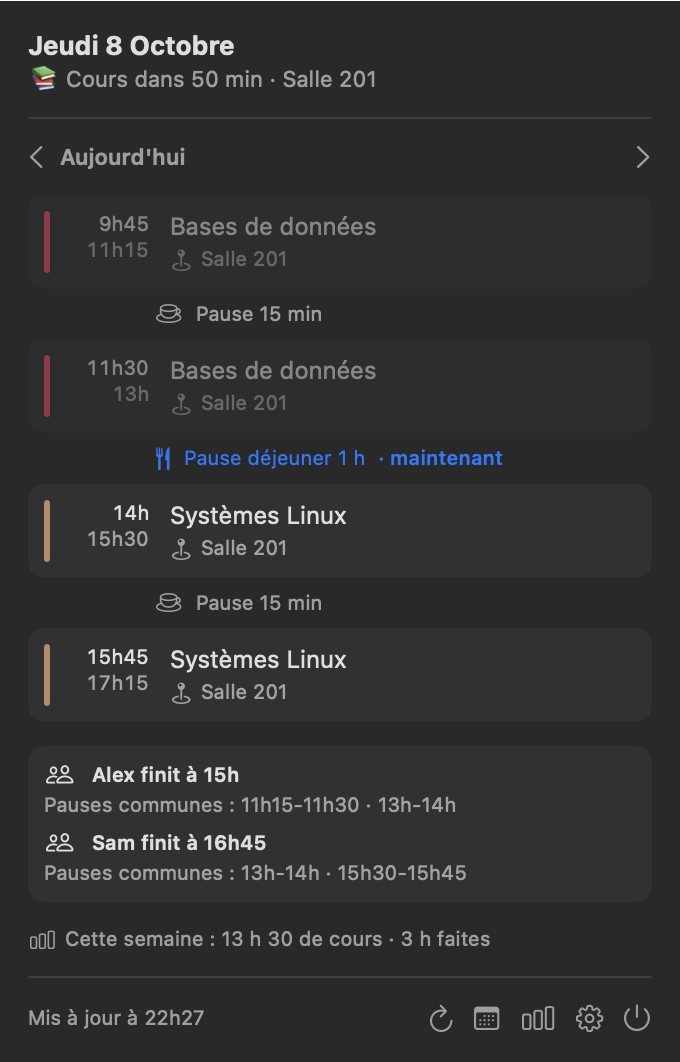
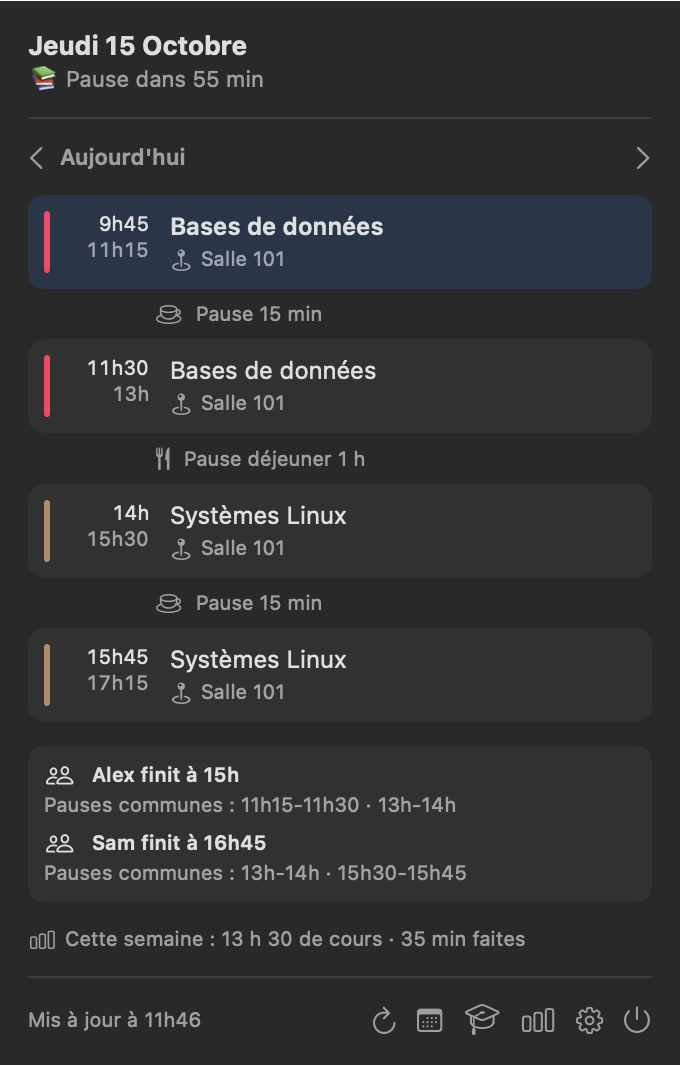
feat(ui): compte myGES dans les réglages, vue des notes, notification de nouvelle note

diff --git a/Sources/EduBar/Views/GradesView.swift b/Sources/EduBar/Views/GradesView.swift
@@ -1,0 +1,136 @@
+import EduBarCore
+import SwiftUI
+
+/// Notes myGES par matière : moyenne, contrôles continus, examen. Les notes apparues au dernier chargement sont en vert.
+struct GradesView: View {
+    let model: AppModel
+
+    private var book: GradeBook? { model.snapshotGrades ?? model.grades.book }
+
+    var body: some View {
+        let subjects = (book?.subjects ?? []).sorted {
+            $0.shortCourse.localizedCaseInsensitiveCompare($1.shortCourse) == .orderedAscending
+        }
+        let fresh = Set((model.snapshotNewGrades ?? model.grades.newGrades).map { "\($0.course)|\($0.label)" })
+        let colors = colors(for: subjects)
+
+        return VStack(alignment: .leading, spacing: 12) {
+            HStack(alignment: .firstTextBaseline) {
+                Button { model.showingGrades = false } label: { Image(systemName: "chevron.left") }
+                    .buttonStyle(.borderless)
+                VStack(alignment: .leading, spacing: 0) {
+                    Text("Notes").font(.headline)
+                    subtitle(count: subjects.count)
+                }
+            }
+            Divider()
+
+            if !model.hasCredentials {
+                VStack(alignment: .leading, spacing: 6) {
+                    Text("Ajoute ton compte myGES dans les réglages pour voir tes notes.")
+                        .font(.callout)
+                    Button("Réglages") {
+                        model.panel = .account
+                        model.openSettings()
+                    }
+                }
+            } else if subjects.isEmpty {
+                Text("Aucune note pour l'instant.").font(.callout).foregroundStyle(.secondary)
+            } else {
+                ScrollView {
+                    VStack(spacing: 8) {
+                        ForEach(subjects) { card($0, fresh: fresh, colors: colors) }
+                    }
+                }
+                .frame(maxHeight: 420)
+            }
+        }
+        .padding(14)
+        .frame(width: 340)
+        // Menu refermé : retour à la journée à la réouverture.
+        .onDisappear { model.showingGrades = false }
+    }
+
+    @ViewBuilder
+    private func subtitle(count: Int) -> some View {
+        if let error = model.grades.lastError, model.snapshotGrades == nil {
+            Text(error).font(.caption).foregroundStyle(.orange).lineLimit(2)
+        } else {
+            let updated = model.snapshotGrades == nil ? model.grades.lastUpdated : model.now
+            Text("\(count) matière\(count > 1 ? "s" : "")" + (updated.map { " · mis à jour à \(Display.time($0, calendar: model.calendar))" } ?? ""))
+                .font(.caption).foregroundStyle(.secondary)
+        }
+    }
+
+    /// Couleur de la matière : celle de l'emploi du temps si elle y figure, sinon une couleur stable.
+    private func colors(for subjects: [GradeBook.Subject]) -> [String: Int] {
+        var assigned = SubjectColors.assign(subjects.map(key), count: SubjectPalette.colors.count)
+        for (k, v) in model.subjectColors where assigned[k] != nil { assigned[k] = v }
+        return assigned
+    }
+
+    private func key(_ s: GradeBook.Subject) -> String { s.shortCourse.lowercased().trimmingCharacters(in: .whitespaces) }
+
+    private func card(_ s: GradeBook.Subject, fresh: Set<String>, colors: [String: Int]) -> some View {
+        let color = SubjectPalette.color(key(s), in: colors)
+        let title = s.shortCourse.prefix(1).uppercased() + s.shortCourse.dropFirst()
+        let headline = s.average ?? s.ccAverage
+        return VStack(alignment: .leading, spacing: 6) {
+            HStack(alignment: .firstTextBaseline, spacing: 6) {
+                Circle().fill(color).frame(width: 8, height: 8)
+                VStack(alignment: .leading, spacing: 1) {
+                    Text(title).font(.callout.weight(.semibold)).lineLimit(2)
+                    if let teacher = s.teacher {
+                        Text(teacher).font(.caption).foregroundStyle(.secondary).lineLimit(1)
+                    }
+                }
+                Spacer(minLength: 8)
+                Text(Self.format(headline) ?? "·").font(.title3.weight(.bold)).monospacedDigit()
+            }
+            if !s.grades.isEmpty || s.exam != nil {
+                HStack(spacing: 4) {
+                    ForEach(Array(s.grades.enumerated()), id: \.offset) { i, g in
+                        chip("CC\(i + 1) \(Self.format(g) ?? "")", highlighted: fresh.contains("\(s.course)|CC\(i + 1)"))
+                    }
+                    if let exam = s.exam {
+                        chip("Exam \(Self.format(exam) ?? "")", highlighted: fresh.contains("\(s.course)|Examen"))
+                    }
+                }
+            }
+            if let detail = detail(s) {
+                Text(detail).font(.caption).foregroundStyle(.secondary)
+            }
+        }
+        .padding(8)
+        .frame(maxWidth: .infinity, alignment: .leading)
+        .background(RoundedRectangle(cornerRadius: 8).fill(Color.primary.opacity(0.05)))
+    }
+
+    private func chip(_ text: String, highlighted: Bool) -> some View {
+        Text(text)
+            .font(.caption.monospacedDigit())
+            .padding(.horizontal, 6)
+            .padding(.vertical, 2)
+            .background(Capsule().fill(highlighted ? Color.green.opacity(0.28) : Color.primary.opacity(0.08)))
+    }
+
+    private func detail(_ s: GradeBook.Subject) -> String? {
+        var parts: [String] = []
+        if let coef = s.coef { parts.append("coef \(Self.format(coef) ?? "")") }
+        if let ects = s.ects { parts.append("\(Self.format(ects) ?? "") ECTS") }
+        return parts.isEmpty ? nil : parts.joined(separator: " · ")
+    }
+
+    private static let formatter: NumberFormatter = {
+        let f = NumberFormatter()
+        f.locale = Locale(identifier: "fr_FR")
+        f.minimumFractionDigits = 0
+        f.maximumFractionDigits = 2
+        return f
+    }()
+
+    /// « 14,5 », virgule française ; nil si pas de valeur.
+    private static func format(_ value: Double?) -> String? {
+        value.flatMap { formatter.string(from: NSNumber(value: $0)) }
+    }
+}

diff --git a/Sources/EduBar/Views/SettingsView.swift b/Sources/EduBar/Views/SettingsView.swift
@@ -42,6 +42,7 @@ struct SettingsView: View {
     private func content(_ panel: SettingsPanel) -> some View {
         switch panel {
         case .calendar: calendarEditor
+        case .account: accountEditor
         case .notifications: notificationsEditor
         case .alternance: alternanceEditor
         case .shortcuts: shortcutsEditor
@@ -55,8 +56,25 @@ struct SettingsView: View {
     // MARK: - Calendrier
 
     private var calendarEditor: some View {
+        VStack(alignment: .leading, spacing: 12) {
+            Picker("Source", selection: binding(\.calendarSource)) {
+                ForEach(CalendarSource.allCases) { Text($0.title).tag($0) }
+            }
+            .pickerStyle(.segmented)
+            if model.calendarSource == .myges {
+                caption("L'emploi du temps vient de ton compte myGES (section Compte myGES). Rafraîchi toutes les 15 min, 8 semaines à l'avance.")
+                if !model.hasCredentials {
+                    Button("Configurer le compte") { model.panel = .account }
+                }
+            } else {
+                icalEditor
+            }
+        }
+    }
+
+    private var icalEditor: some View {
         VStack(alignment: .leading, spacing: 8) {
-            Text("URL du calendrier Edusign").font(.callout.weight(.semibold))
+            Text("URL du calendrier iCal (Edusign)").font(.callout.weight(.semibold))
             TextField("webcal://api.edusign.fr/student/account/ical?…", text: binding(\.feedDraft))
                 .textFieldStyle(.roundedBorder)
                 .onSubmit(model.saveDraft)
@@ -78,6 +96,46 @@ struct SettingsView: View {
             }
             .disabled(model.feedURL == nil)
             .help("Abonne l'app Calendrier à ce flux : tes cours y apparaissent et restent à jour.")
+        }
+    }
+
+    // MARK: - Compte myGES
+
+    private var accountEditor: some View {
+        VStack(alignment: .leading, spacing: 8) {
+            Text("Identifiants myGES").font(.callout.weight(.semibold))
+            TextField("Identifiant (p.nom)", text: binding(\.loginDraft))
+                .textFieldStyle(.roundedBorder)
+                .textContentType(.username)
+            SecureField("Mot de passe", text: binding(\.passwordDraft))
+                .textFieldStyle(.roundedBorder)
+                .onSubmit { Task { await model.saveCredentials() } }
+            caption("Les mêmes que sur myges.fr. Ils restent sur ce Mac, dans un fichier lisible par ta session seulement (0600), et ne servent qu'à obtenir un jeton auprès de myGES.")
+            HStack {
+                Button("Se connecter") { Task { await model.saveCredentials() } }
+                    .disabled(model.accountSaving || model.loginDraft.isEmpty || model.passwordDraft.isEmpty)
+                    .keyboardShortcut(.defaultAction)
+                if model.accountSaving { ProgressView().controlSize(.small) }
+                if let result = model.accountResult {
+                    Label(result.message, systemImage: result.ok ? "checkmark.circle" : "xmark.circle")
+                        .font(.caption)
+                        .foregroundStyle(result.ok ? .green : .red)
+                        .lineLimit(3)
+                }
+            }
+            if model.hasCredentials {
+                Divider()
+                VStack(alignment: .leading, spacing: 4) {
+                    Text("Connecté : \(model.mygesLogin)").font(.callout.weight(.medium))
+                    if let error = model.grades.lastError {
+                        Label(error, systemImage: "exclamationmark.triangle")
+                            .font(.caption).foregroundStyle(.orange).lineLimit(3)
+                    } else if let updated = model.grades.lastUpdated {
+                        caption("Notes rafraîchies à \(Display.time(updated, calendar: model.calendar))")
+                    }
+                }
+                Button("Oublier ce compte", role: .destructive, action: model.forgetCredentials)
+            }
         }
     }
 
@@ -218,6 +276,17 @@ struct SettingsView: View {
                     .foregroundStyle(.secondary)
                     .fixedSize(horizontal: false, vertical: true)
             }
+            VStack(alignment: .leading, spacing: 2) {
+                HStack {
+                    Toggle("Nouvelle note", isOn: binding(\.notifyNewGrades))
+                        .font(.callout.weight(.medium))
+                    Spacer()
+                    Button("Tester", action: model.testNewGrade)
+                        .font(.caption)
+                }
+                caption("Dès qu'une note apparaît sur myGES (vérifié toutes les 15 min). Nécessite un compte myGES.")
+            }
+            .disabled(!model.hasCredentials)
             Button("Rétablir les notifications par défaut") { model.notifications = .defaults }
                 .font(.caption)
                 .disabled(model.notifications == .defaults)

diff --git a/Sources/EduBar/Snapshot.swift b/Sources/EduBar/Snapshot.swift
@@ -22,6 +22,12 @@ enum Snapshot {
         // `--demo` : mêmes horaires, matières et salles fictives (captures publiées).
         let demo = args.contains("--demo")
         if demo { model.snapshotCourses = anonymized(model.schedule.courses) }
+        if demo {
+            model.snapshotHasCredentials = true
+            model.snapshotLogin = "p.nom"
+            model.snapshotGrades = demoGrades
+            model.snapshotNewGrades = [NewGrade(course: "T1 - Bases de données", label: "CC1", value: 18)]
+        }
         model.tick()
         // Potes factices : tes cours, finis 30 min plus tôt, sans le dernier (ou le premier) de la journée.
         let savedNames = model.friendNames
@@ -69,6 +75,12 @@ enum Snapshot {
         print(model.diagnosticText())
         write(SettingsView(model: model, panelOnly: true), to: dir.appendingPathComponent("settings-closed.png"))
         write(StatsView(model: model), to: dir.appendingPathComponent("stats.png"))
+        if demo {
+            write(GradesView(model: model), to: dir.appendingPathComponent("grades.png"))
+            model.loginDraft = "p.nom"
+            model.panel = .account
+            write(SettingsView(model: model, panelOnly: true), to: dir.appendingPathComponent("panel-account.png"))
+        }
         model.openWeek()
         write(WeekView(model: model), to: dir.appendingPathComponent("week.png"))
         model.showingWeek = false
@@ -172,6 +184,22 @@ enum Snapshot {
             write(view, to: dir.appendingPathComponent("bar-\(name).png"))
         }
     }
+
+    /// Carnet de notes fictif des captures `--demo`.
+    private static let demoGrades = GradeBook(subjects: [
+        .init(course: "T1 - Réseaux et protocoles", grades: [12, 15.5], exam: 13, average: 13.6, ccAverage: 13.75,
+              coef: 2, ects: 3, teacher: "M. Martin", trimester: 1),
+        .init(course: "T1 - Algorithmique", grades: [16, 14], exam: 17, average: 16.2, ccAverage: 15,
+              coef: 3, ects: 4, teacher: "Mme Durand", trimester: 1),
+        .init(course: "T1 - Systèmes Linux", grades: [9.5], exam: nil, average: nil, ccAverage: 9.5,
+              coef: 2, ects: 3, teacher: "M. Petit", trimester: 1),
+        .init(course: "T1 - Anglais technique", grades: [14, 11, 15], exam: 12, average: 13, ccAverage: 13.33,
+              coef: 1, ects: 2, teacher: "Mme Leroy", trimester: 1),
+        .init(course: "T1 - Bases de données", grades: [18], exam: nil, average: nil, ccAverage: 18,
+              coef: 2, ects: 3, teacher: "M. Moreau", trimester: 1),
+        .init(course: "T1 - Cybersécurité", grades: [], exam: nil, average: nil, ccAverage: nil,
+              coef: 2, ects: 3, teacher: "M. Bernard", trimester: 1),
+    ])
 
     private static let demoSubjects = [
         "Réseaux et protocoles", "Algorithmique", "Systèmes Linux", "Anglais technique", "Bases de données",

diff --git a/Sources/EduBar/Views/DayView.swift b/Sources/EduBar/Views/DayView.swift
@@ -34,10 +34,10 @@ struct DayView: View {
                     detail: "Si macOS le demande, autorise EduBar à lire son ancien élément du Trousseau : c'est la dernière fois.",
                     button: nil
                 )
-            } else if model.feedURL == nil {
+            } else if !model.hasSource {
                 emptyState(
                     "Aucun calendrier configuré",
-                    detail: "Colle l'URL webcal de ton calendrier Edusign dans les réglages.",
+                    detail: "Ajoute ton compte myGES ou l'URL de ton calendrier dans les réglages.",
                     button: "Configurer"
                 )
             } else if model.schedule.courses.isEmpty {
@@ -309,7 +309,7 @@ struct DayView: View {
                     Label("Pas mis à jour depuis \(stale)" + (model.store.lastError.map { " · \($0)" } ?? ""),
                           systemImage: "exclamationmark.triangle")
                         .foregroundStyle(.orange)
-                        .help("Le planning affiché peut être périmé : Edusign ne répond plus ou renvoie une erreur.")
+                        .help("Le planning affiché peut être périmé : la source ne répond plus ou renvoie une erreur.")
                 } else if let error = model.store.lastError {
                     Label(error, systemImage: "exclamationmark.triangle").foregroundStyle(.orange)
                 } else if let updated = model.store.lastUpdated {
@@ -325,11 +325,14 @@ struct DayView: View {
             } label: {
                 Image(systemName: "arrow.clockwise")
             }
-            .disabled(model.store.isLoading || model.feedURL == nil)
+            .disabled(model.store.isLoading || !model.hasSource)
             .help("Rafraîchir")
             Button(action: model.openWeek) { Image(systemName: "calendar") }
                 .disabled(model.schedule.courses.isEmpty)
                 .help("Semaine")
+            Button { model.showingGrades = true } label: { Image(systemName: "graduationcap") }
+                .disabled(!model.hasCredentials)
+                .help("Notes")
             Button { model.showingStats = true } label: { Image(systemName: "chart.bar") }
                 .disabled(model.schedule.courses.isEmpty)
                 .help("Statistiques")

diff --git a/Sources/EduBar/AppModel.swift b/Sources/EduBar/AppModel.swift
@@ -6,13 +6,14 @@ import ServiceManagement
 
 /// Sections de la fenêtre de réglages, dans l'ordre de la barre latérale.
 enum SettingsPanel: CaseIterable, Identifiable {
-    case calendar, notifications, alternance, shortcuts, friend, weather, templates, app
+    case calendar, account, notifications, alternance, shortcuts, friend, weather, templates, app
 
     var id: Self { self }
 
     var title: String {
         switch self {
         case .calendar: "Calendrier"
+        case .account: "Compte myGES"
         case .notifications: "Notifications"
         case .alternance: "Alternance"
         case .shortcuts: "Raccourcis"
@@ -26,6 +27,7 @@ enum SettingsPanel: CaseIterable, Identifiable {
     var symbol: String {
         switch self {
         case .calendar: "calendar"
+        case .account: "person.crop.circle"
         case .notifications: "bell"
         case .alternance: "building.2"
         case .shortcuts: "square.stack.3d.up"
@@ -104,9 +106,15 @@ final class AppModel {
 
     /// Identifiants myGES, lus sur disque au démarrage. Le mot de passe ne sort jamais du modèle.
     private(set) var credentials: MyGESCredentials?
-    var hasCredentials: Bool { credentials != nil }
+    var hasCredentials: Bool { credentials != nil || snapshotHasCredentials }
     /// Login seul, pour l'affichage.
-    var mygesLogin: String { credentials?.login ?? "" }
+    var mygesLogin: String { credentials?.login ?? snapshotLogin ?? "" }
+    /// Faux compte du mode `--snapshot --demo` (jamais le vrai login dans une capture).
+    @ObservationIgnored var snapshotHasCredentials = false
+    @ObservationIgnored var snapshotLogin: String?
+    /// Notes factices du mode `--snapshot --demo`.
+    @ObservationIgnored var snapshotGrades: GradeBook?
+    @ObservationIgnored var snapshotNewGrades: [NewGrade]?
     /// Brouillons des réglages du compte myGES.
     var loginDraft = ""
     var passwordDraft = ""

diff --git a/Sources/EduBar/MenuBarController.swift b/Sources/EduBar/MenuBarController.swift
@@ -83,6 +83,7 @@ final class MenuBarController: NSObject, NSPopoverDelegate {
         model.dayOffset = 0
         model.showingStats = false
         model.showingWeek = false
+        model.showingGrades = false
         model.weekOffset = 0
         model.reportCopied = false
         popover.contentViewController = nil
@@ -119,7 +120,9 @@ struct MenuContent: View {
 
     var body: some View {
         Group {
-            if model.showingStats {
+            if model.showingGrades {
+                GradesView(model: model)
+            } else if model.showingStats {
                 StatsView(model: model)
             } else if model.showingWeek {
                 WeekView(model: model)
